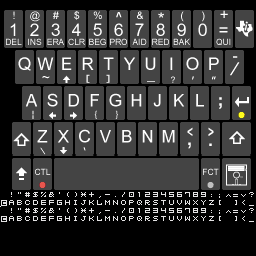
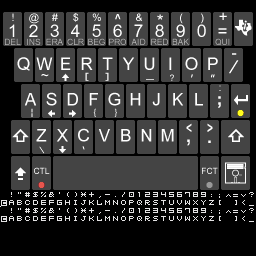
Cleanup, refactoring and some name changes to improve code and file layout.

Changed region(s): [[0.0, 0.0312, 1.0, 0.75]]

diff --git a/arm9/source/DS99.c b/arm9/source/DS99.c
@@ -29,10 +29,10 @@
 #include "cpu/tms9900/tms9900.h"
 #include "disk.h"
 #include "intro.h"
-#include "alpha.h"
+#include "ds99kbd.h"
 #include "ti99kbd.h"
 #include "options.h"
-#include "ecranHaut.h"
+#include "splash.h"
 #include "screenshot.h"
 #include "soundbank.h"
 #include "soundbank_bin.h"
@@ -856,7 +856,7 @@ u8 CheckKeyboardInput(u16 iTy, u16 iTx)
         // --------------------------------------------------------------------------
         // Test the touchscreen rendering of the keyboard
         // --------------------------------------------------------------------------
-        if ((iTy >= 10) && (iTy < 50))        // Row 1 (top row)
+        if ((iTy >= 8) && (iTy < 47))        // Row 1 (top row)
         {
             if      ((iTx >= 3)   && (iTx < 24))   {tms9901.Keyboard[TMS_KEY_1]=1;      if (!bKeyClick) bKeyClick=1;}
             else if ((iTx >= 24)  && (iTx < 45))   {tms9901.Keyboard[TMS_KEY_2]=1;      if (!bKeyClick) bKeyClick=1;}
@@ -871,7 +871,7 @@ u8 CheckKeyboardInput(u16 iTy, u16 iTx)
             else if ((iTx >= 213) && (iTx < 234))  {tms9901.Keyboard[TMS_KEY_EQUALS]=1; if (!bKeyClick) bKeyClick=1;}
             else if ((iTx >= 234) && (iTx < 256))  return MiniMenu();
         }
-        else if ((iTy >= 50) && (iTy < 85))        // Row 2 (QWERTY row)
+        else if ((iTy >= 47) && (iTy < 83))        // Row 2 (QWERTY row)
         {
             if      ((iTx >= 14)  && (iTx < 35))   {tms9901.Keyboard[TMS_KEY_Q]=1;      if (!bKeyClick) bKeyClick=1;}
             else if ((iTx >= 35)  && (iTx < 56))   {tms9901.Keyboard[TMS_KEY_W]=1;      if (!bKeyClick) bKeyClick=1;}
@@ -885,7 +885,7 @@ u8 CheckKeyboardInput(u16 iTy, u16 iTx)
             else if ((iTx >= 203) && (iTx < 224))  {tms9901.Keyboard[TMS_KEY_P]=1;      if (!bKeyClick) bKeyClick=1;}
             else if ((iTx >= 224) && (iTx < 245))  {tms9901.Keyboard[TMS_KEY_SLASH]=1;  if (!bKeyClick) bKeyClick=1;}
         }
-        else if ((iTy >= 85) && (iTy < 121))       // Row 3 (ASDF row)
+        else if ((iTy >= 83) && (iTy < 119))       // Row 3 (ASDF row)
         {
             if      ((iTx >= 20)  && (iTx < 42))   {tms9901.Keyboard[TMS_KEY_A]=1;      if (!bKeyClick) bKeyClick=1;}
             else if ((iTx >= 42)  && (iTx < 63))   {tms9901.Keyboard[TMS_KEY_S]=1;      if (!bKeyClick) bKeyClick=1;}
@@ -899,7 +899,7 @@ u8 CheckKeyboardInput(u16 iTy, u16 iTx)
             else if ((iTx >= 208) && (iTx < 231))  {tms9901.Keyboard[TMS_KEY_SEMI]=1;   if (!bKeyClick) bKeyClick=1;}
             else if ((iTx >= 231) && (iTx < 256))  {tms9901.Keyboard[TMS_KEY_ENTER]=1;  if (!bKeyClick) bKeyClick=1;}
         }
-        else if ((iTy >= 121) && (iTy < 157))       // Row 4 (ZXCV row)
+        else if ((iTy >= 119) && (iTy < 155))       // Row 4 (ZXCV row)
         {
             if      ((iTx >= 11)  && (iTx < 32))   return META_KEY_SHIFT;
             else if ((iTx >= 32)  && (iTx < 53))   {tms9901.Keyboard[TMS_KEY_Z]=1;      if (!bKeyClick) bKeyClick=1;}
@@ -913,7 +913,7 @@ u8 CheckKeyboardInput(u16 iTy, u16 iTx)
             else if ((iTx >= 200) && (iTx < 222))  {tms9901.Keyboard[TMS_KEY_PERIOD]=1; if (!bKeyClick) bKeyClick=1;}
             else if ((iTx >= 222) && (iTx < 255))  return META_KEY_SHIFT;
         }
-        else if ((iTy >= 157) && (iTy <= 192))       // Row 5 (SPACE BAR row)
+        else if ((iTy >= 155) && (iTy <= 192))       // Row 5 (SPACE BAR row)
         {
             if      ((iTx >= 11)  && (iTx < 32))   return META_KEY_ALPHALOCK;
             else if ((iTx >= 32)  && (iTx < 53))   return META_KEY_CONTROL;
@@ -1377,9 +1377,9 @@ void TI99DSInit(void)
   bg0 = bgInit(0, BgType_Text8bpp,  BgSize_T_256x512, 31,0);
   bg1 = bgInit(1, BgType_Text8bpp,  BgSize_T_256x512, 29,0);
   bgSetPriority(bg0,1);bgSetPriority(bg1,0);
-  decompress(ecranHautTiles,  bgGetGfxPtr(bg0), LZ77Vram);
-  decompress(ecranHautMap,  (void*) bgGetMapPtr(bg0), LZ77Vram);
-  dmaCopy((void*) ecranHautPal,(void*)  BG_PALETTE,256*2);
+  decompress(splashTiles,  bgGetGfxPtr(bg0), LZ77Vram);
+  decompress(splashMap,  (void*) bgGetMapPtr(bg0), LZ77Vram);
+  dmaCopy((void*) splashPal,(void*)  BG_PALETTE,256*2);
   unsigned  short dmaVal =*(bgGetMapPtr(bg0)+51*32);
   dmaFillWords(dmaVal | (dmaVal<<16),(void*)  bgGetMapPtr(bg1),32*24*2);
 
@@ -1407,10 +1407,10 @@ void InitBottomScreen(void)
     swiWaitForVBlank();
     if (myConfig.overlay == 0)
     {
-        decompress(alphaTiles, bgGetGfxPtr(bg0b),  LZ77Vram);
-        decompress(alphaMap, (void*) bgGetMapPtr(bg0b),  LZ77Vram);
+        decompress(ds99kbdTiles, bgGetGfxPtr(bg0b),  LZ77Vram);
+        decompress(ds99kbdMap, (void*) bgGetMapPtr(bg0b),  LZ77Vram);
         dmaCopy((void*) bgGetMapPtr(bg0b)+32*30*2,(void*) bgGetMapPtr(bg1b),32*24*2);
-        dmaCopy((void*) alphaPal,(void*) BG_PALETTE_SUB,256*2);
+        dmaCopy((void*) ds99kbdPal,(void*) BG_PALETTE_SUB,256*2);
 
         unsigned  short dmaVal = *(bgGetMapPtr(bg1b)+24*32);
         dmaFillWords(dmaVal | (dmaVal<<16),(void*)  bgGetMapPtr(bg1b),32*24*2);

diff --git a/arm9/source/DS99_utils.c b/arm9/source/DS99_utils.c
@@ -21,7 +21,7 @@
 #include "DS99mngt.h"
 #include "DS99_utils.h"
 
-#include "ecranHaut.h"
+#include "splash.h"
 #include "options.h"
 
 #include "CRC32.h"
@@ -1678,9 +1678,9 @@ void tiDSChangeOptions(void)
   bg0 = bgInit(0, BgType_Text8bpp, BgSize_T_256x512, 31,0);
   bg1 = bgInit(1, BgType_Text8bpp, BgSize_T_256x512, 29,0);
   bgSetPriority(bg0,1);bgSetPriority(bg1,0);
-  decompress(ecranHautTiles, bgGetGfxPtr(bg0), LZ77Vram);
-  decompress(ecranHautMap, (void*) bgGetMapPtr(bg0), LZ77Vram);
-  dmaCopy((void*) ecranHautPal,(void*) BG_PALETTE,256*2);
+  decompress(splashTiles, bgGetGfxPtr(bg0), LZ77Vram);
+  decompress(splashMap, (void*) bgGetMapPtr(bg0), LZ77Vram);
+  dmaCopy((void*) splashPal,(void*) BG_PALETTE,256*2);
   unsigned short dmaVal =  *(bgGetMapPtr(bg0) + 51*32);
   dmaFillWords(dmaVal | (dmaVal<<16),(void*) bgGetMapPtr(bg1),32*24*2);
 

diff --git a/arm9/source/intro.c b/arm9/source/intro.c
@@ -16,7 +16,7 @@
 #include "DS99_utils.h"
 
 #include "soundbank.h"
-#include "ecranHaut.h"
+#include "splash.h"
 #include "pdev_bg0.h"
 
 extern unsigned int vusCptVBL;
@@ -50,9 +50,9 @@ void intro_logo(void) {
   mmEffect(SFX_MUS_INTRO);
 
   // Show splash screen
-  decompress(ecranHautTiles, bgGetGfxPtr(bg1), LZ77Vram);
-  decompress(ecranHautMap, (void*) bgGetMapPtr(bg1), LZ77Vram);
-  dmaCopy((void *) ecranHautPal,(u16*) BG_PALETTE,256*2);
+  decompress(splashTiles, bgGetGfxPtr(bg1), LZ77Vram);
+  decompress(splashMap, (void*) bgGetMapPtr(bg1), LZ77Vram);
+  dmaCopy((void *) splashPal,(u16*) BG_PALETTE,256*2);
 
   decompress(pdev_bg0Tiles, bgGetGfxPtr(bg1s), LZ77Vram);
   decompress(pdev_bg0Map, (void*) bgGetMapPtr(bg1s), LZ77Vram);

diff --git a/arm9/source/highscore.c b/arm9/source/highscore.c
@@ -16,7 +16,6 @@
 #include <unistd.h>
 #include "DS99.h"
 #include "DS99_utils.h"
-#include "ecranHaut.h"
 
 // ------------------------------------------------------------------------------
 // With only 125 released games plus 25-50 prototypes and 50-ish homebrews,

diff --git a/README.md b/README.md
@@ -4,7 +4,7 @@ DS994a - A Texas Instruments TI99/4a Emulator for the DS/DSi
 To run requires the TI BIOS ROMS in the /roms/bios directory.
 See BIOS files further down for the ones you need.
 
-![TI99/4a Screen](https://github.com/wavemotion-dave/DS994a/blob/main/ti_screen.bmp)
+![TI99/4a Screen](https://github.com/wavemotion-dave/DS994a/blob/main/ti.bmp)
 
 Features :
 -----------------------
